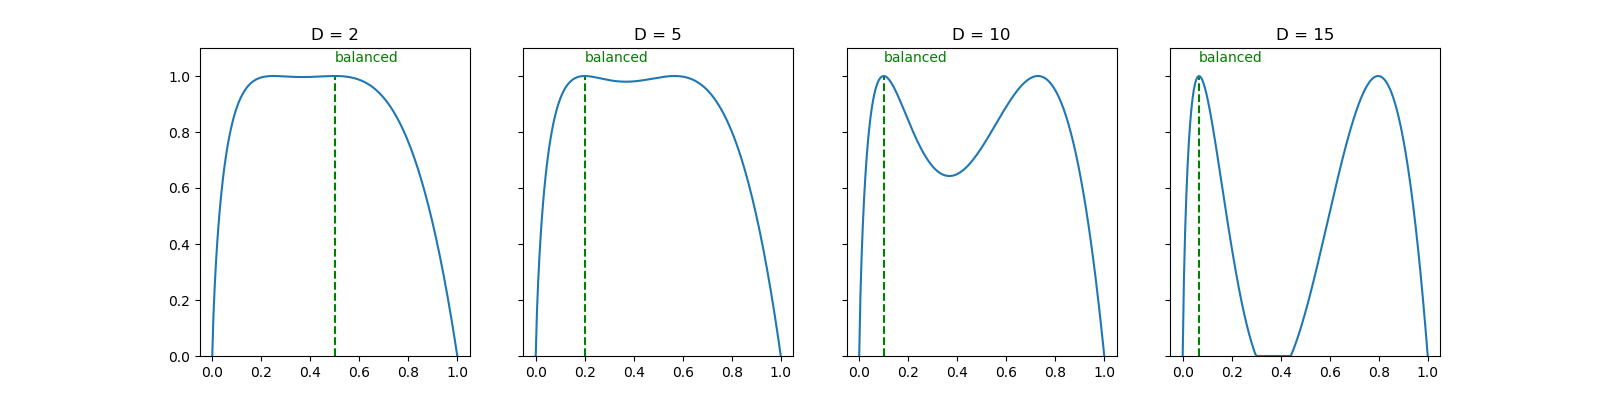
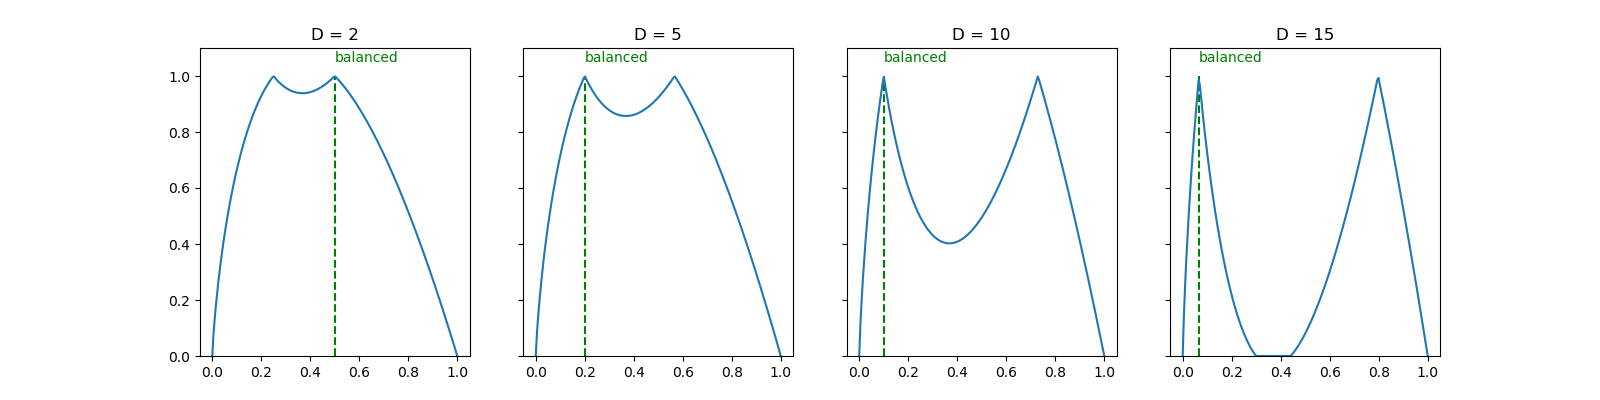
fix abs bug

diff --git a/article/figures.py b/article/figures.py
@@ -20,7 +20,7 @@ def abs_scaling(x, c):
     temp = np.array([y * np.log(y) if y > 0 else 0 for y in x])
     temp /= ((1/c) * np.log((1/c)))
     temp[temp > 2] = 2
-    out = 1 - (1 - temp) ** 2
+    out = 1 - np.abs((1 - temp))
 
     print(out)
     return out
